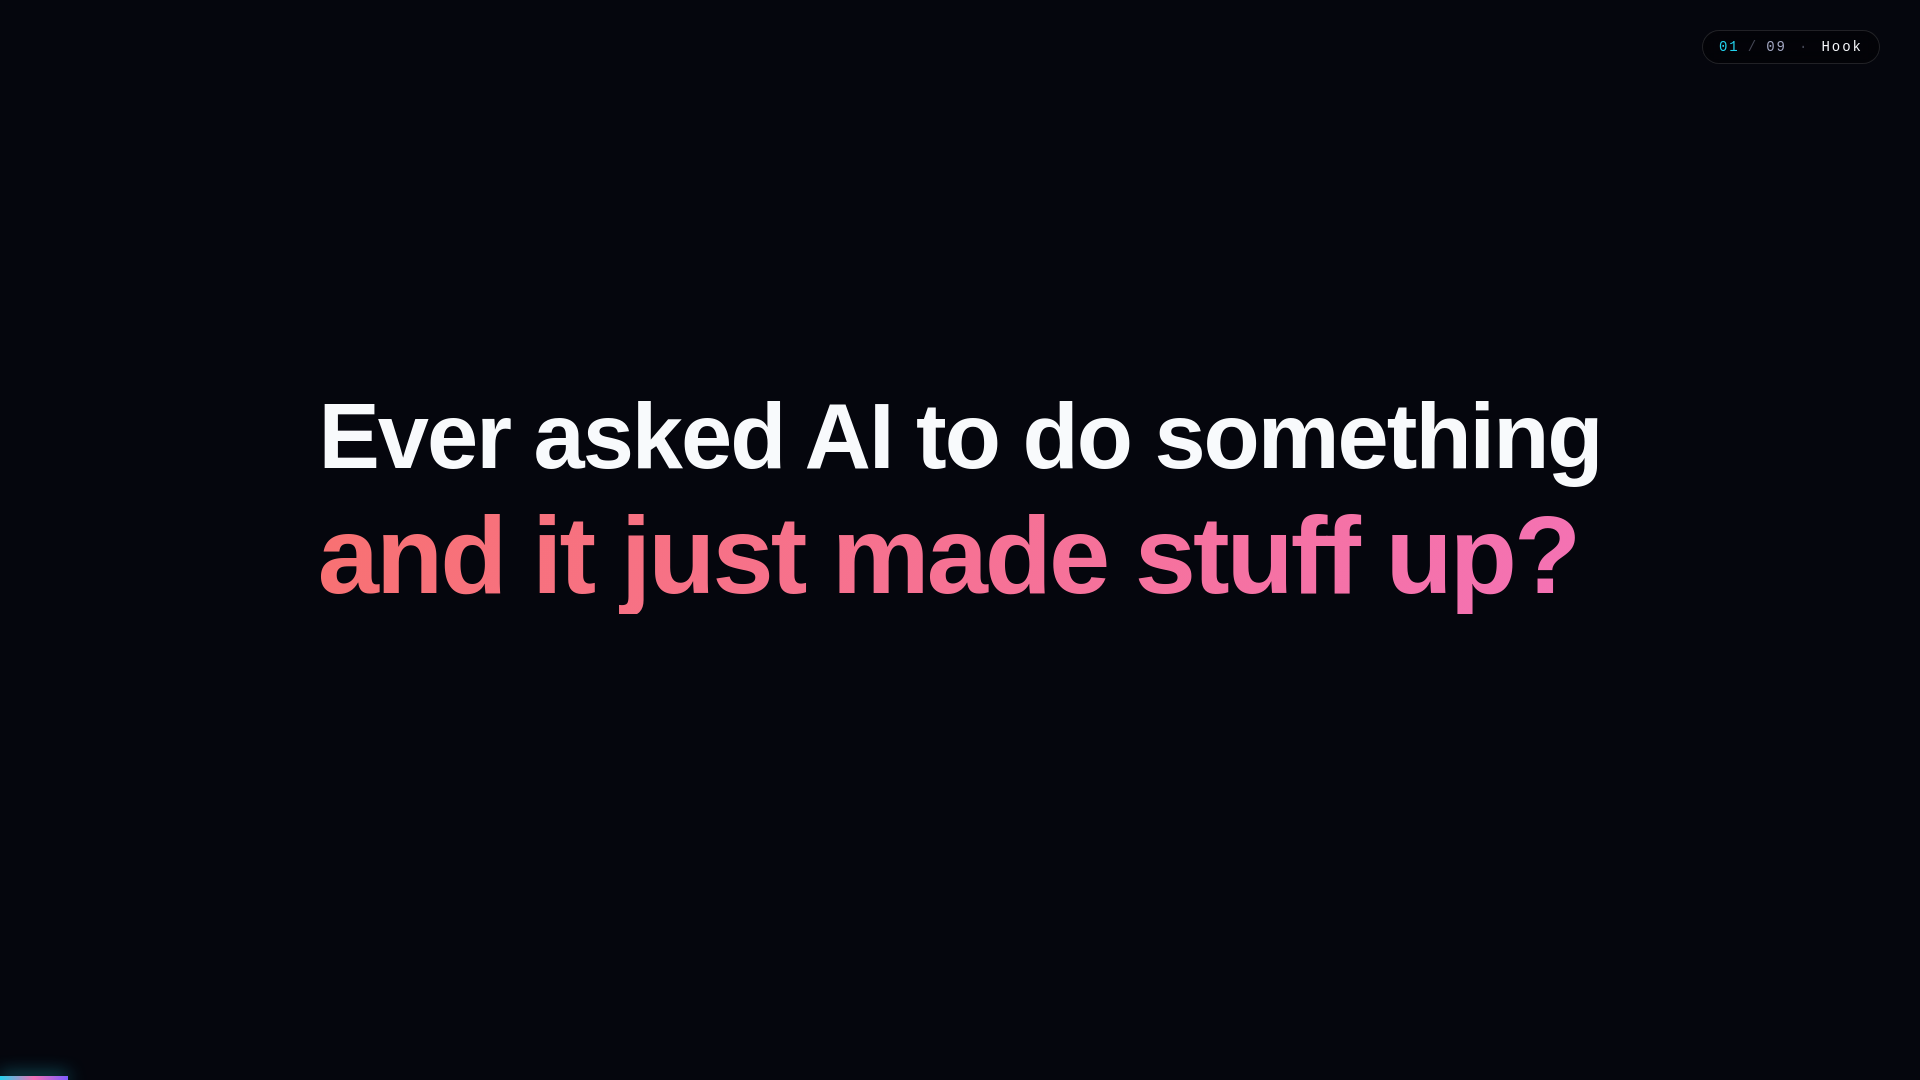
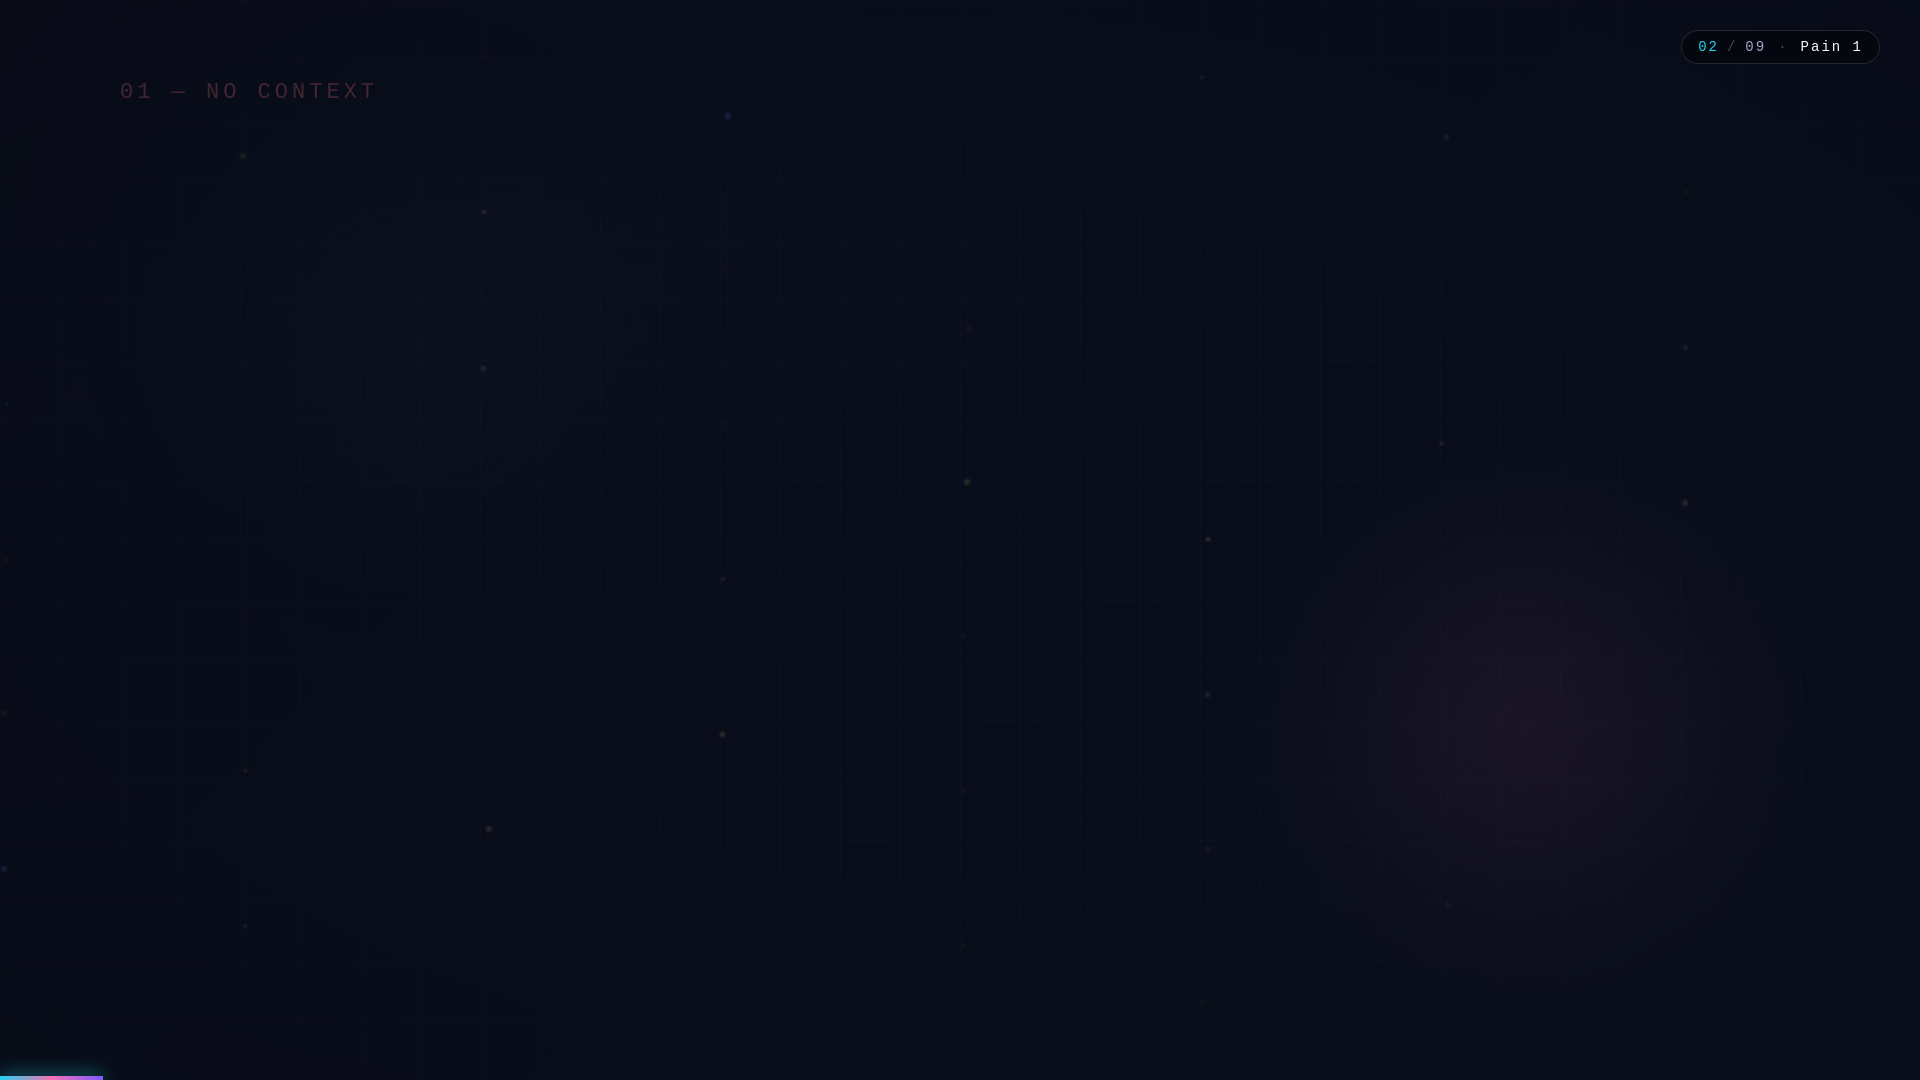
feat(video): faster pacing + rock track + v0.1.6 (#14)
* ci: retrigger npm publish for 0.1.5

* feat(video): faster pacing + rock backing track for why-agentic-starter

- Trim total duration from 80s to 53s by tightening scene durations
  and reducing in-scene spring delays across all 9 scenes.
- Add synthesized rock backing track (kick + snare + hi-hat + power
  chord drone, 128 BPM, ~52s loop) at video/public/sfx/rock-bg.mp3,
  loaded via staticFile() and mixed at 0.45 volume.
- Bump package to 0.1.6 and embed video preview (cover linked to mp4)
  in README.md and README.pt-BR.md.

---------

diff --git a/video/src/why/scenes/CTA.tsx b/video/src/why/scenes/CTA.tsx
@@ -16,24 +16,24 @@ export const CTA: React.FC = () => {
   const t = useWhyT().cta;
 
   const titleP = spring({
-    frame: frame - 6,
-    fps,
-    config: { damping: 16, stiffness: 110 },
-  });
-  const cmdP = spring({
-    frame: frame - 40,
+    frame: frame - 4,
     fps,
     config: { damping: 14, stiffness: 130 },
   });
-  const repoP = spring({
-    frame: frame - 80,
+  const cmdP = spring({
+    frame: frame - 25,
     fps,
-    config: { damping: 16, stiffness: 120 },
+    config: { damping: 12, stiffness: 150 },
+  });
+  const repoP = spring({
+    frame: frame - 50,
+    fps,
+    config: { damping: 14, stiffness: 140 },
   });
   const footerP = spring({
-    frame: frame - 110,
+    frame: frame - 70,
     fps,
-    config: { damping: 18, stiffness: 130 },
+    config: { damping: 16, stiffness: 150 },
   });
 
   return (

diff --git a/video/src/why/WhyAgenticStarter.tsx b/video/src/why/WhyAgenticStarter.tsx
@@ -1,7 +1,9 @@
 import React from "react";
 import {
   AbsoluteFill,
+  Audio,
   Sequence,
+  staticFile,
   useCurrentFrame,
   useVideoConfig,
 } from "remotion";
@@ -20,15 +22,15 @@ import { Lang } from "./i18n";
 import { theme } from "../theme";
 
 const SCENES = [
-  { Component: Hook, duration: 150 },
-  { Component: PainTyping, duration: 300 },
-  { Component: PainList, duration: 240 },
-  { Component: Reveal, duration: 180 },
-  { Component: Anatomy, duration: 360 },
-  { Component: SideBySide, duration: 540 },
-  { Component: Productivity, duration: 240 },
-  { Component: MultiAgent, duration: 240 },
-  { Component: CTA, duration: 150 },
+  { Component: Hook, duration: 80 },
+  { Component: PainTyping, duration: 200 },
+  { Component: PainList, duration: 130 },
+  { Component: Reveal, duration: 110 },
+  { Component: Anatomy, duration: 240 },
+  { Component: SideBySide, duration: 380 },
+  { Component: Productivity, duration: 160 },
+  { Component: MultiAgent, duration: 160 },
+  { Component: CTA, duration: 130 },
 ] as const;
 
 type Timed = {
@@ -65,6 +67,7 @@ export const WhyAgenticStarter: React.FC<WhyAgenticStarterProps> = ({
             </Sequence>
           );
         })}
+        <Audio src={staticFile("sfx/rock-bg.mp3")} volume={0.45} />
         <ProgressBar />
         <SceneLabel />
       </AbsoluteFill>

diff --git a/video/src/why/scenes/Anatomy.tsx b/video/src/why/scenes/Anatomy.tsx
@@ -18,17 +18,17 @@ export const Anatomy: React.FC = () => {
   const overlineP = spring({
     frame,
     fps,
-    config: { damping: 18, stiffness: 130 },
+    config: { damping: 16, stiffness: 150 },
   });
   const titleP = spring({
-    frame: frame - 20,
+    frame: frame - 10,
     fps,
-    config: { damping: 16, stiffness: 110 },
+    config: { damping: 14, stiffness: 130 },
   });
   const glueP = spring({
-    frame: frame - 280,
+    frame: frame - 170,
     fps,
-    config: { damping: 18, stiffness: 120 },
+    config: { damping: 16, stiffness: 140 },
   });
 
   return (
@@ -86,9 +86,9 @@ export const Anatomy: React.FC = () => {
         >
           {t.pieces.map((piece, i) => {
             const p = spring({
-              frame: frame - 50 - i * 30,
+              frame: frame - 30 - i * 18,
               fps,
-              config: { damping: 14, stiffness: 130 },
+              config: { damping: 12, stiffness: 150 },
             });
             return (
               <div

diff --git a/video/src/why/scenes/MultiAgent.tsx b/video/src/why/scenes/MultiAgent.tsx
@@ -27,17 +27,17 @@ export const MultiAgent: React.FC = () => {
   const overlineP = spring({
     frame,
     fps,
-    config: { damping: 18, stiffness: 130 },
+    config: { damping: 16, stiffness: 150 },
   });
   const titleP = spring({
-    frame: frame - 20,
+    frame: frame - 10,
     fps,
-    config: { damping: 16, stiffness: 110 },
+    config: { damping: 14, stiffness: 130 },
   });
   const centerP = spring({
-    frame: frame - 50,
+    frame: frame - 30,
     fps,
-    config: { damping: 14, stiffness: 100 },
+    config: { damping: 12, stiffness: 120 },
   });
 
   return (
@@ -125,9 +125,9 @@ export const MultiAgent: React.FC = () => {
             const x = 350 + Math.cos(orbitAngle) * radius;
             const y = 250 + Math.sin(orbitAngle) * radius * 0.7;
             const p = spring({
-              frame: frame - 80 - i * 12,
+              frame: frame - 50 - i * 8,
               fps,
-              config: { damping: 14, stiffness: 130 },
+              config: { damping: 12, stiffness: 150 },
             });
             return (
               <div

diff --git a/video/src/why/scenes/Hook.tsx b/video/src/why/scenes/Hook.tsx
@@ -15,19 +15,19 @@ export const Hook: React.FC = () => {
   const t = useWhyT().hook;
 
   const line1P = spring({
-    frame: frame - 8,
+    frame: frame - 4,
     fps,
-    config: { damping: 16, stiffness: 110 },
+    config: { damping: 14, stiffness: 130 },
   });
   const line2P = spring({
-    frame: frame - 40,
+    frame: frame - 24,
     fps,
-    config: { damping: 14, stiffness: 100 },
+    config: { damping: 12, stiffness: 120 },
   });
   const subP = spring({
-    frame: frame - 90,
+    frame: frame - 50,
     fps,
-    config: { damping: 18, stiffness: 120 },
+    config: { damping: 16, stiffness: 140 },
   });
 
   const cursorBlink = Math.floor(frame / 15) % 2 === 0 ? 1 : 0;

diff --git a/video/src/why/scenes/PainTyping.tsx b/video/src/why/scenes/PainTyping.tsx
@@ -29,16 +29,16 @@ export const PainTyping: React.FC = () => {
   });
 
   const bubbles: Bubble[] = [
-    { role: "user", text: t.user1, fromFrame: 20 },
-    { role: "ai", text: t.ai1, fromFrame: 80 },
-    { role: "user", text: t.user2, fromFrame: 140 },
-    { role: "ai", text: t.ai2, fromFrame: 200, highlight: true },
+    { role: "user", text: t.user1, fromFrame: 10 },
+    { role: "ai", text: t.ai1, fromFrame: 50 },
+    { role: "user", text: t.user2, fromFrame: 90 },
+    { role: "ai", text: t.ai2, fromFrame: 130, highlight: true },
   ];
 
   const annotationP = spring({
-    frame: frame - 250,
+    frame: frame - 160,
     fps,
-    config: { damping: 14, stiffness: 110 },
+    config: { damping: 12, stiffness: 130 },
   });
 
   return (

diff --git a/video/src/why/scenes/Reveal.tsx b/video/src/why/scenes/Reveal.tsx
@@ -16,19 +16,19 @@ export const Reveal: React.FC = () => {
   const t = useWhyT().reveal;
 
   const preP = spring({
-    frame: frame - 6,
+    frame: frame - 4,
     fps,
-    config: { damping: 16, stiffness: 110 },
+    config: { damping: 14, stiffness: 130 },
   });
   const brandP = spring({
-    frame: frame - 50,
+    frame: frame - 28,
     fps,
-    config: { damping: 12, stiffness: 90 },
+    config: { damping: 11, stiffness: 110 },
   });
   const subP = spring({
-    frame: frame - 110,
+    frame: frame - 65,
     fps,
-    config: { damping: 18, stiffness: 130 },
+    config: { damping: 16, stiffness: 140 },
   });
 
   const brandScale = interpolate(brandP, [0, 1], [0.5, 1]);

diff --git a/video/src/why/scenes/Productivity.tsx b/video/src/why/scenes/Productivity.tsx
@@ -18,12 +18,12 @@ export const Productivity: React.FC = () => {
   const overlineP = spring({
     frame,
     fps,
-    config: { damping: 18, stiffness: 130 },
+    config: { damping: 16, stiffness: 150 },
   });
   const titleP = spring({
-    frame: frame - 18,
+    frame: frame - 10,
     fps,
-    config: { damping: 16, stiffness: 110 },
+    config: { damping: 14, stiffness: 130 },
   });
 
   return (
@@ -81,9 +81,9 @@ export const Productivity: React.FC = () => {
         >
           {t.metrics.map((m, i) => {
             const p = spring({
-              frame: frame - 50 - i * 40,
+              frame: frame - 30 - i * 25,
               fps,
-              config: { damping: 12, stiffness: 100 },
+              config: { damping: 10, stiffness: 110 },
             });
             return (
               <div

diff --git a/video/src/why/scenes/SideBySide.tsx b/video/src/why/scenes/SideBySide.tsx
@@ -54,8 +54,8 @@ export const SideBySide: React.FC = () => {
           chat={t.leftChat}
           accent={theme.colors.red}
           badge={t.leftBadge}
-          startFrame={20}
-          stepFrames={60}
+          startFrame={10}
+          stepFrames={40}
           isBad
         />
         <Pane
@@ -63,8 +63,8 @@ export const SideBySide: React.FC = () => {
           chat={t.rightChat}
           accent={theme.colors.green}
           badge={t.rightBadge}
-          startFrame={30}
-          stepFrames={60}
+          startFrame={20}
+          stepFrames={40}
         />
       </AbsoluteFill>
     </AbsoluteFill>

diff --git a/video/src/why/scenes/PainList.tsx b/video/src/why/scenes/PainList.tsx
@@ -75,9 +75,9 @@ export const PainList: React.FC = () => {
         >
           {t.items.map((item, i) => {
             const p = spring({
-              frame: frame - 40 - i * 25,
+              frame: frame - 20 - i * 14,
               fps,
-              config: { damping: 16, stiffness: 130 },
+              config: { damping: 14, stiffness: 150 },
             });
             return (
               <div

diff --git a/README.md b/README.md
@@ -10,6 +10,12 @@ AI-friendly, stack-neutral repository scaffold. Drop it into **any** project —
 
 > Visual summary: drop the starter into a messy software project and it turns scattered context into structure, reusable skills, tests, docs, and guardrails for AI coding agents.
 
+### Watch: why agentic-starter? (53s)
+
+[![Watch the video](video/assets/why-cover.png)](https://github.com/wesleysimplicio/agentic-starter/raw/main/video/assets/why-agentic-starter.mp4)
+
+> Click the cover to play. Direct link: [`video/assets/why-agentic-starter.mp4`](video/assets/why-agentic-starter.mp4) · English version: [`video/assets/why-agentic-starter-en.mp4`](video/assets/why-agentic-starter-en.mp4).
+
 ---
 
 ## Operational Docs For Agents

diff --git a/README.pt-BR.md b/README.pt-BR.md
@@ -10,6 +10,12 @@ Esqueleto de repositório AI-friendly, neutro de stack. Joga em **qualquer** pro
 
 > Resumo visual: joga o starter em um projeto baguncado e ele transforma contexto espalhado em estrutura, skills reutilizaveis, testes, docs e guardrails para agentes de coding.
 
+### Assista: por que agentic-starter? (53s)
+
+[![Assistir ao vídeo](video/assets/why-cover.png)](https://github.com/wesleysimplicio/agentic-starter/raw/main/video/assets/why-agentic-starter.mp4)
+
+> Clica na capa pra rodar. Link direto: [`video/assets/why-agentic-starter.mp4`](video/assets/why-agentic-starter.mp4) · Versão em inglês: [`video/assets/why-agentic-starter-en.mp4`](video/assets/why-agentic-starter-en.mp4).
+
 ---
 
 ## Documentação operacional para agentes